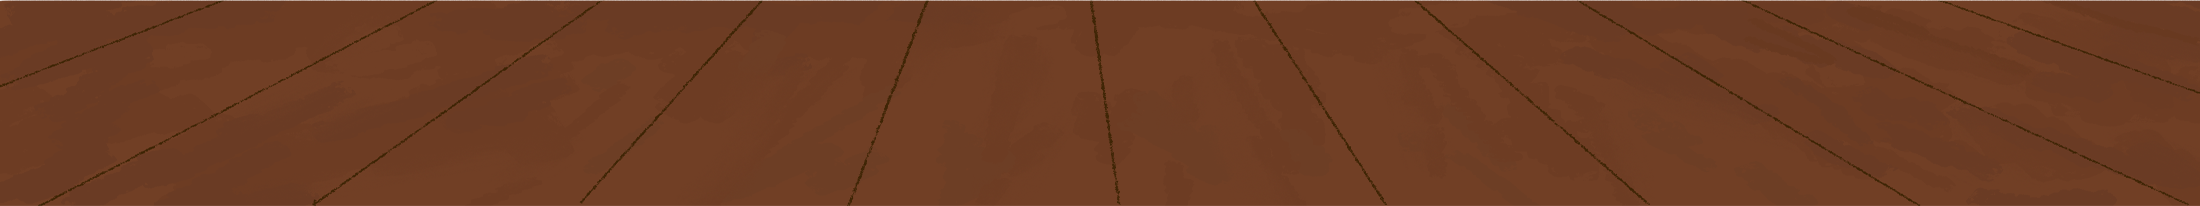
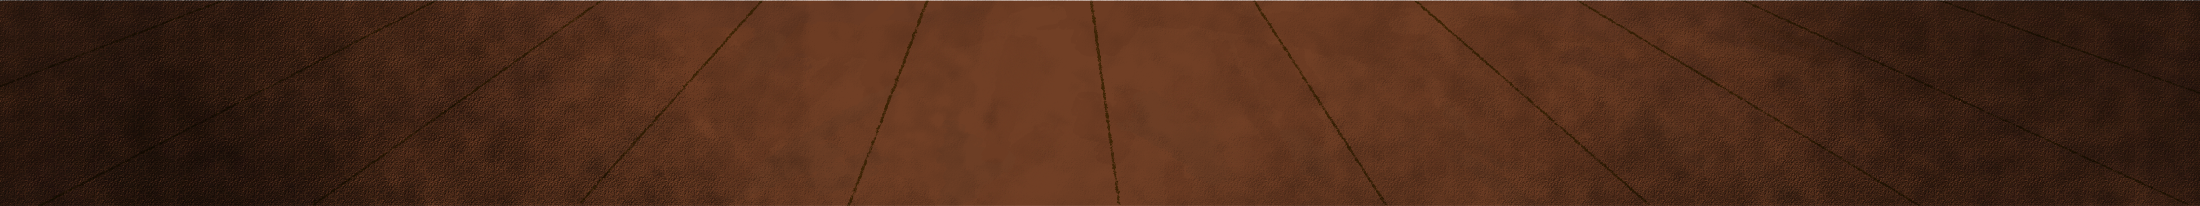
updated background

diff --git a/spotlight.js b/spotlight.js
@@ -1,10 +1,10 @@
 const layers = [
-	{ el: document.querySelector(".mask"), ease: 0.04, x: window.innerWidth/2, y: window.innerHeight/2+110 },
+	{ el: document.querySelector(".mask"), ease: 0.04, x: window.innerWidth/2, y: window.innerHeight/2+410 },
 	{ el: document.querySelector(".mask2"), ease: 0.04, x: window.innerWidth/2, y: window.innerHeight/2 }
 ];
 
 let targetX = innerWidth / 2;
-let targetY = innerHeight / 2+110;
+let targetY = innerHeight / 2+410;
 let targetY2 = innerHeight / 2;
 
 
@@ -12,7 +12,7 @@ const m1 = document.getElementsByClassName("imgwrap");
 
 window.addEventListener("mousemove", e => {
 	targetX = e.clientX;
-	targetY = e.clientY;
+	targetY = e.clientY+310;
 	targetY2 = e.clientY/1.25;
 });
 

diff --git a/post.js b/post.js
@@ -16,18 +16,18 @@ function hide(){
 
 event1.addEventListener("click", function(){
 	hide();
-	frame.src = "https://tfssmusic.github.io/Page";
-})
+	frame.src = "https://tfssmusic.github.io/events/1/";
+});
 
 event2.addEventListener("click", function(){
-	frame.src = "https://example.com";
 	hide();
-})
+	frame.src = "https://tfssmusic.github.io/events/2/";
+});
 
 event3.addEventListener("click", function(){
 	hide();
-	frame.src = "https://tfssmusic.github.io/events";
-})
+	frame.src = "https://tfssmusic.github.io/events/3/";
+});
 
 function restore(){
 	frame.style.display = "none";
